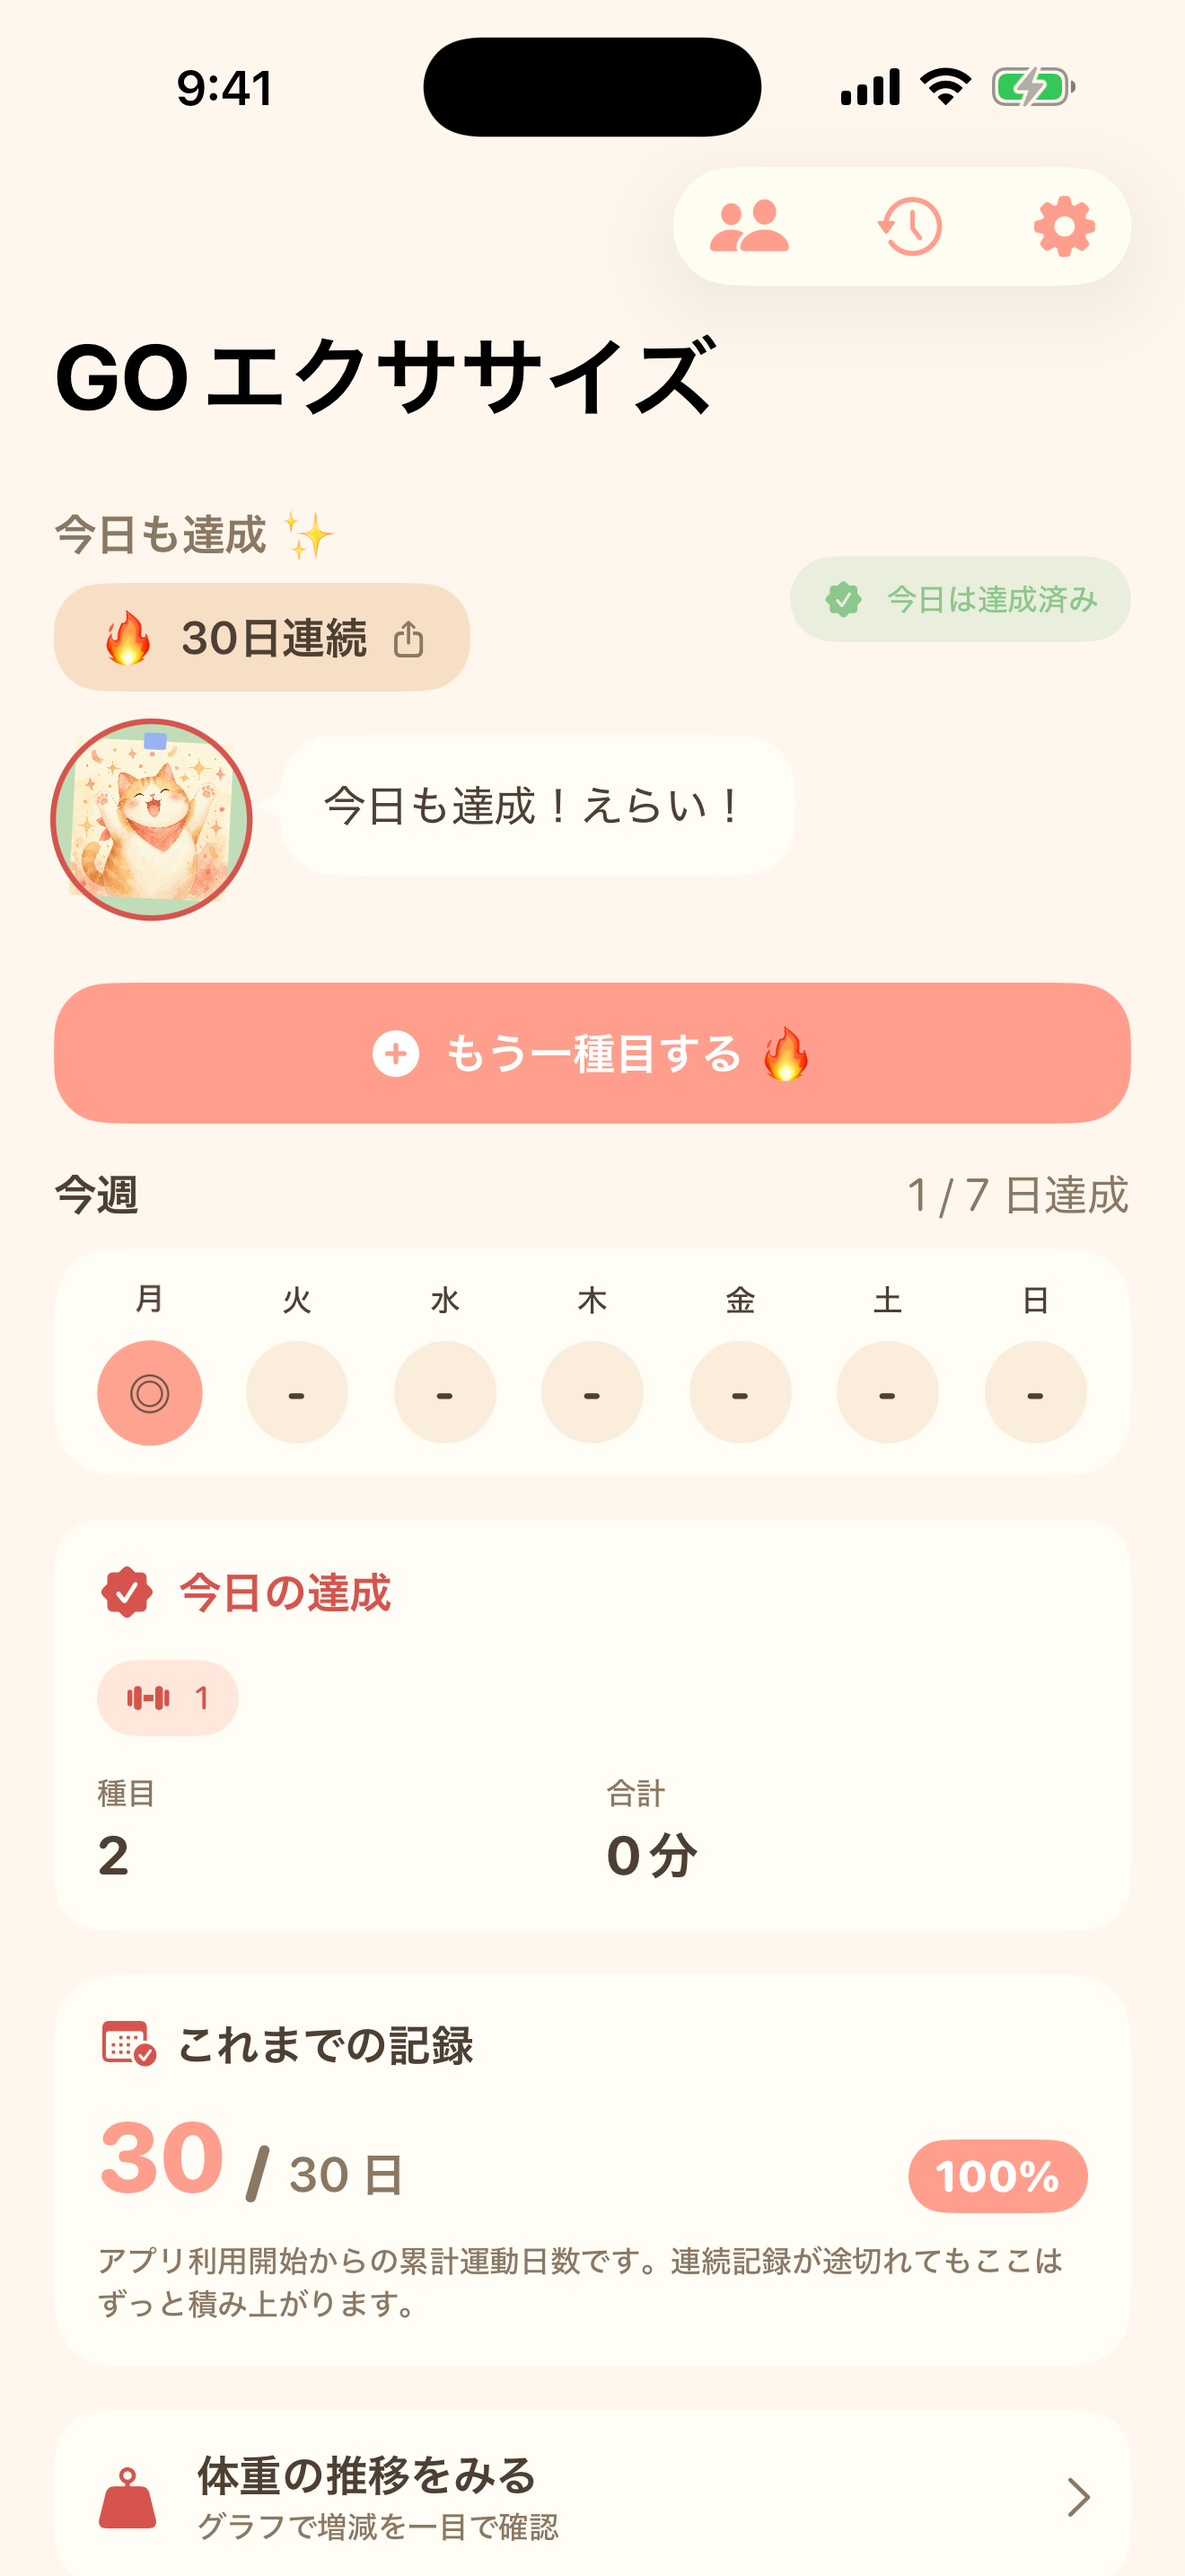
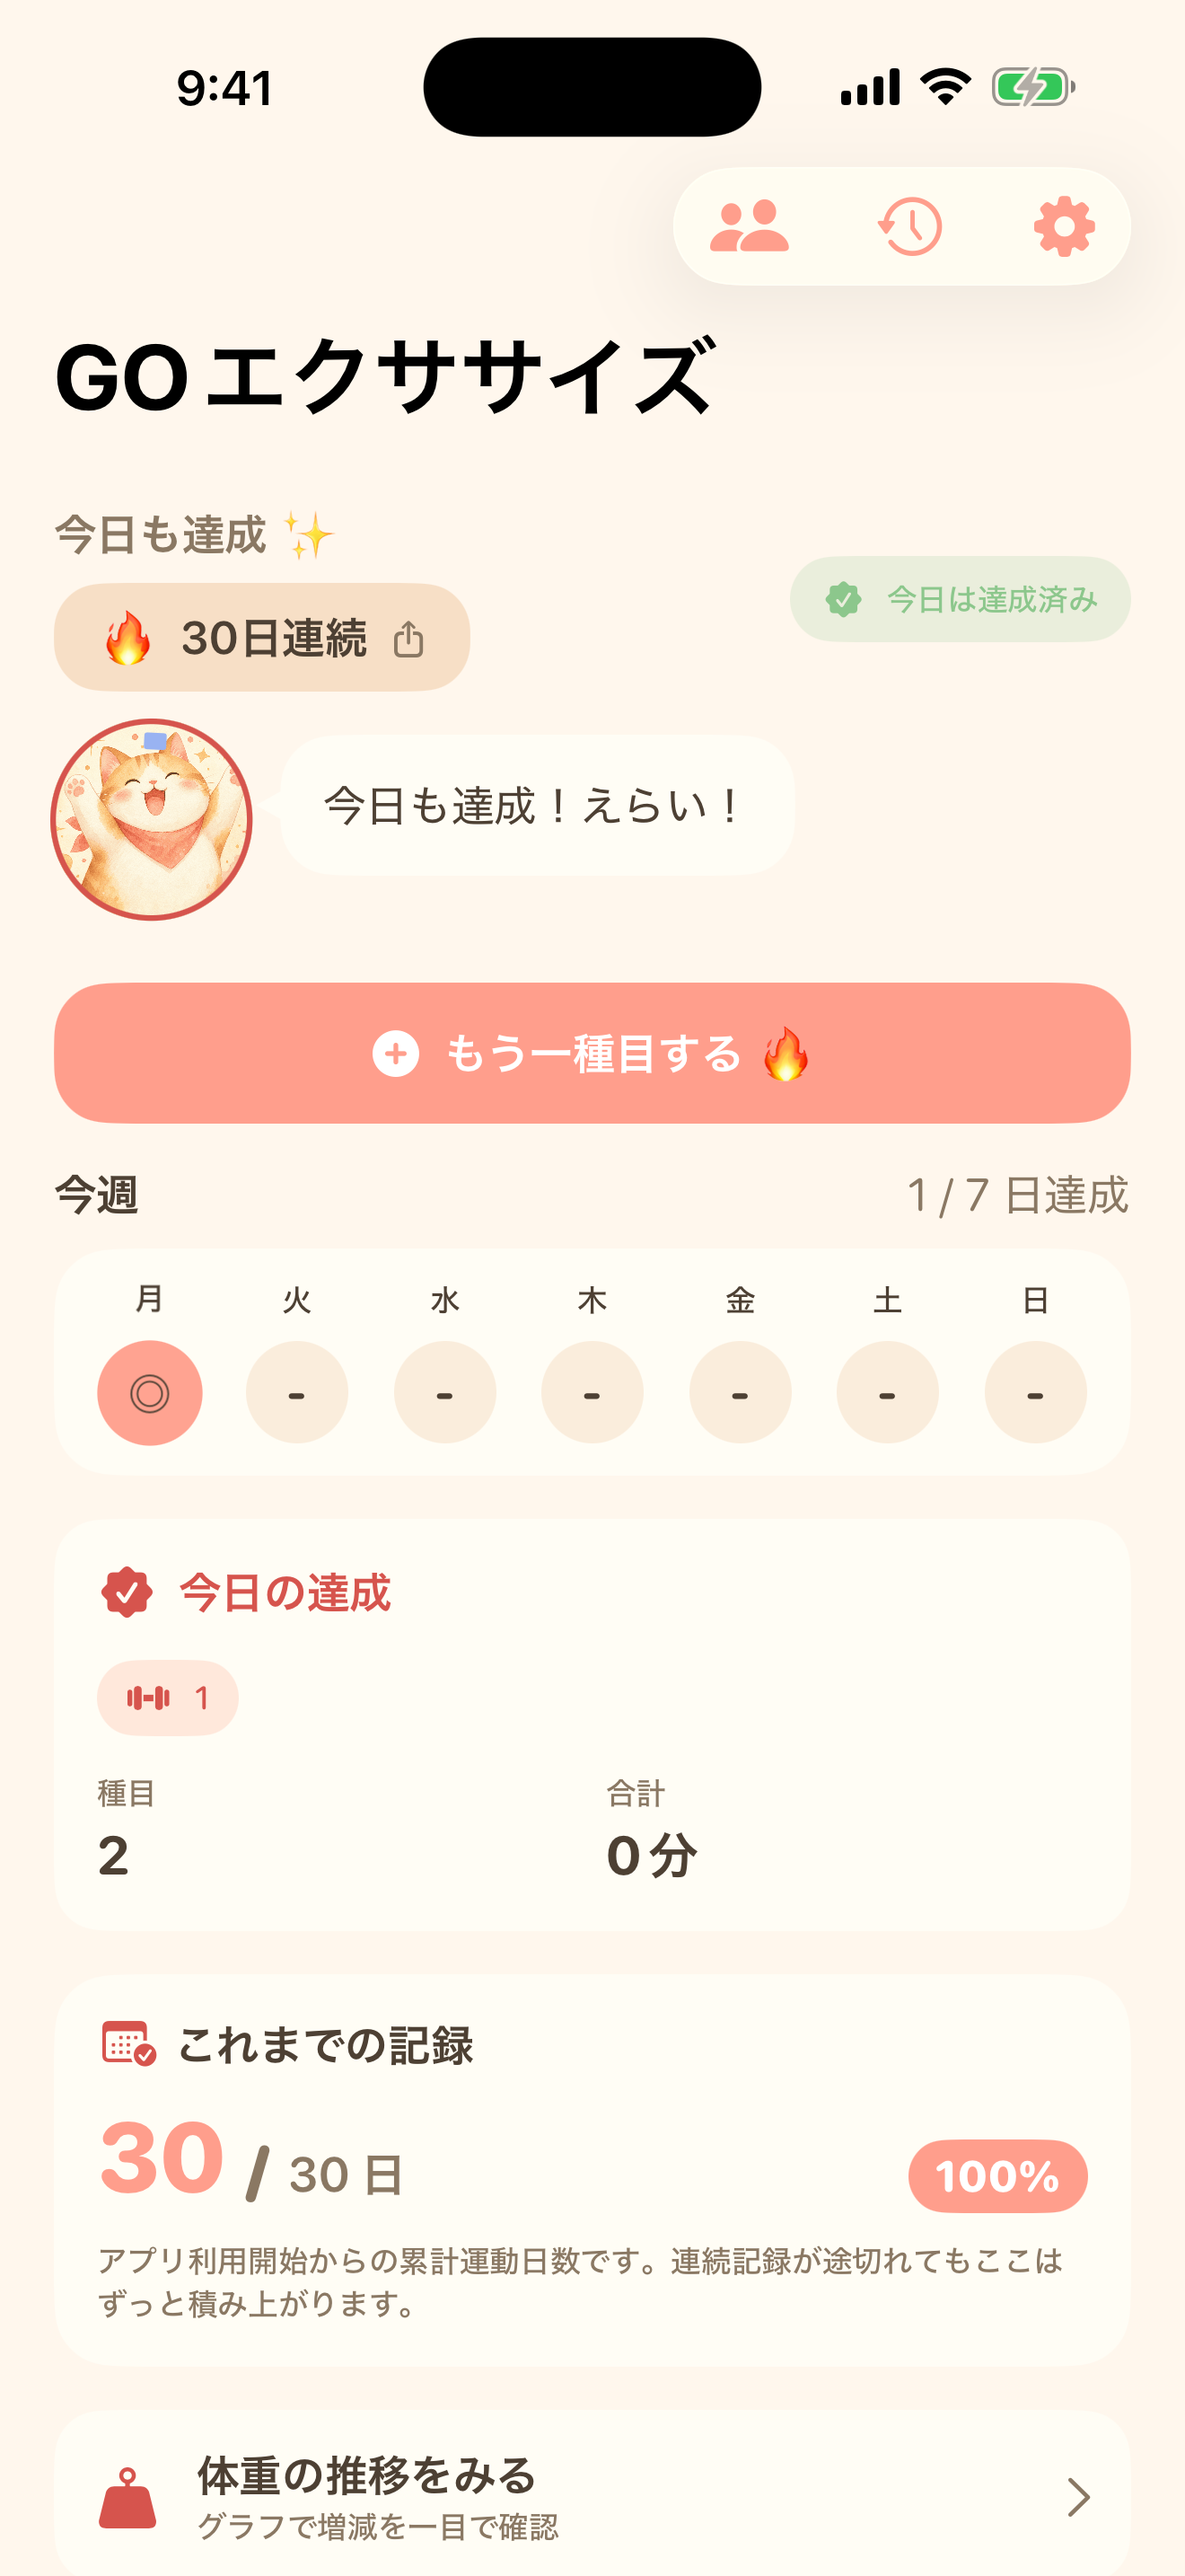
Cat image: apply the same fill-and-clip pattern to StreakShareSheet
Found one more place that displayed the cat asset with scaledToFit
+ clipShape(Circle): the StreakShareSheet cat in the streak-share
card (180×180 circle on the streak card). Same root cause as the
HomeView issue — the cat ended up small inside its frame because
the AI-generated source had scenery padding the subject.

Switch to scaledToFill + per-state scaleEffect, matching the
CatStateView fix. Share card cat is bigger (180pt vs 72pt) so the
scale multipliers are gentler: streakExtended at 1.15 (just trim
the floating flames), celebrating at 1.10.

Audited the other cat-related views:
- HomeView and RecordCompletionView use CatStateView via
  CatMessageView, so they inherit the fix automatically.
- RewardCard / MilestoneCelebrationSheet pass CatDecoration but
  render emoji, not the photo assets — no change needed.
- FriendsView uses Text("🐱") emoji avatars, not photo assets.

App Store screenshot 01_home.png re-shot to reflect the new
avatar look.

All 200 tests (186 unit + 14 UI) still pass.

Changed region(s): [[0.0311, 0.2793, 0.2174, 0.3724]]

diff --git a/app/CerealExercise/CerealExercise/Views/StreakShareSheet.swift b/app/CerealExercise/CerealExercise/Views/StreakShareSheet.swift
@@ -225,14 +225,30 @@ struct StreakShareCard: View {
     @ViewBuilder
     private var catImage: some View {
         if UIImage(named: level.catStateAssetName) != nil {
+            // CatStateView と同じ方針: scaledToFill + clipShape(Circle) で
+            // 元画像の余白 (窓 / 紙吹雪 / 炎) を物理的に切り抜く。share 用
+            // カードは 180×180 と大きいので、scaleEffect は state に応じて
+            // 1.10〜1.20 程度に控えめ。
             Image(level.catStateAssetName)
                 .resizable()
-                .scaledToFit()
+                .scaledToFill()
+                .scaleEffect(shareCatScale)
                 .clipShape(Circle())
                 .overlay(Circle().strokeBorder(.white.opacity(0.45), lineWidth: 3))
         } else {
             Text(level.fallbackEmoji)
                 .font(.system(size: 100))
+        }
+    }
+
+    /// シェアカードは表示サイズが 180pt と大きい (HomeView の 72pt と比べ
+    /// て倍以上) ため、CatStateView 用の scale をそのまま使うと猫が拡大
+    /// されすぎて顔のアップになる。少し控えめに抑える。
+    private var shareCatScale: CGFloat {
+        switch level.catStateAssetName {
+        case "cat_streakExtended": return 1.15   // 炎装飾を少しだけ削る
+        case "cat_celebrating":    return 1.10   // 元から余白少なめ
+        default:                   return 1.10
         }
     }
 
